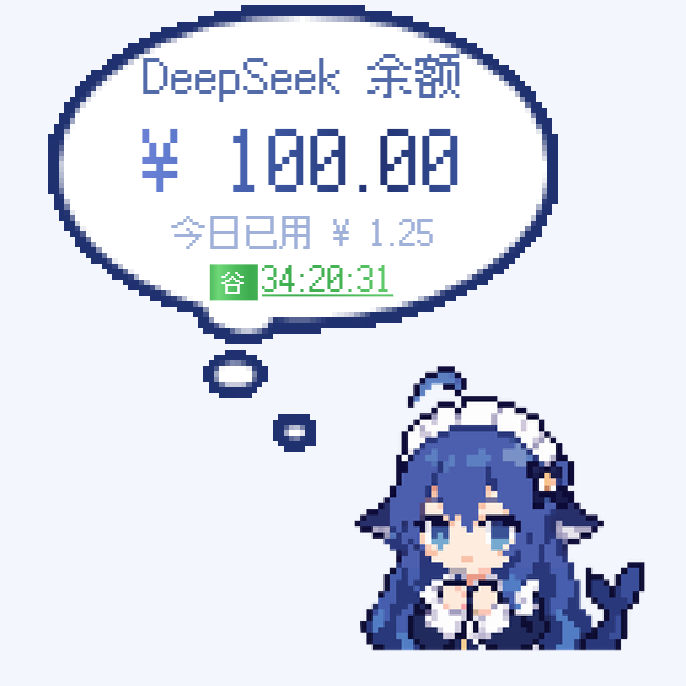
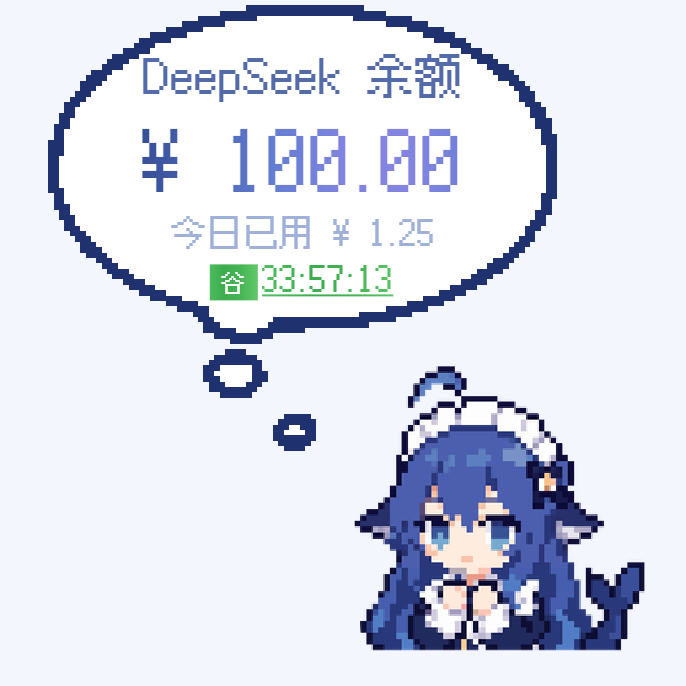
fix: vectorize pixel dialogue frames

diff --git a/assets/pixel-theme.js b/assets/pixel-theme.js
@@ -34,6 +34,116 @@
       ' V ' + (y + u) + ' H ' + (x + 2 * u) + ' Z'
   }
 
+  function quantizePixels(data, palette) {
+    var cells = new Int16Array(data.length / 4)
+    cells.fill(-1)
+    for (var i = 0; i < cells.length; i++) {
+      var offset = i * 4, alpha = data[offset + 3]
+      if (alpha < 8) continue
+      var best = -1, distance = Infinity
+      palette.forEach(function (color, index) {
+        var dr = data[offset] - color[0], dg = data[offset + 1] - color[1], db = data[offset + 2] - color[2]
+        var da = alpha - color[3]
+        var score = dr * dr + dg * dg + db * db + da * da * 0.05
+        if (score < distance) { distance = score; best = index }
+      })
+      // Match unpremultiplied RGB first: a translucent white edge must stay white.
+      // Then snap coverage to the authored opacity, leaving faint outer pixels clear.
+      if (best >= 0 && alpha >= palette[best][3] / 2) cells[i] = best
+    }
+    return cells
+  }
+
+  function pixelPaths(cells, width, height, palette) {
+    var stride = width + 1, edges = palette.map(function () { return new Map() })
+    function edge(color, x, y, direction) {
+      var vertex = y * stride + x, graph = edges[color]
+      graph.set(vertex, (graph.get(vertex) || 0) | (1 << direction))
+    }
+    for (var y = 0; y < height; y++) for (var x = 0; x < width; x++) {
+      var i = y * width + x, color = cells[i]
+      if (color < 0) continue
+      if (y === 0 || cells[i - width] !== color) edge(color, x, y, 0)
+      if (x === width - 1 || cells[i + 1] !== color) edge(color, x + 1, y, 1)
+      if (y === height - 1 || cells[i + width] !== color) edge(color, x + 1, y + 1, 2)
+      if (x === 0 || cells[i - 1] !== color) edge(color, x, y + 1, 3)
+    }
+    var paths = [], moves = [1, stride, -1, -stride]
+    edges.forEach(function (graph, index) {
+      var contours = []
+      while (graph.size) {
+        var start = graph.keys().next().value, vertex = start, last = -1, commands = []
+        var mask = graph.get(start), direction = [0, 1, 2, 3].find(function (d) { return mask & (1 << d) })
+        do {
+          mask = graph.get(vertex) & ~(1 << direction)
+          if (mask) graph.set(vertex, mask); else graph.delete(vertex)
+          vertex += moves[direction]
+          var command = (direction % 2 ? 'V ' + Math.floor(vertex / stride) : 'H ' + (vertex % stride))
+          if (direction === last) commands[commands.length - 1] = command; else commands.push(command)
+          last = direction
+          if (vertex === start) break
+          mask = graph.get(vertex)
+          // Keep diagonally touching pixels as separate contours by turning right first.
+          direction = [(last + 1) % 4, last, (last + 3) % 4, (last + 2) % 4].find(function (d) { return mask & (1 << d) })
+        } while (direction !== undefined)
+        contours.push('M ' + (start % stride) + ' ' + Math.floor(start / stride) + ' ' + commands.join(' ') + ' Z')
+      }
+      if (contours.length) paths.push({ color: palette[index], d: contours.join(' ') })
+    })
+    return paths
+  }
+
+  function framePalette(svg) {
+    var context = document.createElement('canvas').getContext('2d'), palette = []
+    function inherited(node, name, fallback) {
+      for (; node && node.nodeType === 1; node = node.parentNode) if (node.hasAttribute(name)) return node.getAttribute(name)
+      return fallback
+    }
+    svg.querySelectorAll('path,ellipse,circle,rect,polygon,polyline').forEach(function (node) {
+      var opacity = 1
+      for (var parent = node; parent && parent.nodeType === 1; parent = parent.parentNode) {
+        if (parent.hasAttribute('opacity')) opacity *= Number(parent.getAttribute('opacity'))
+      }
+      ;['fill', 'stroke'].forEach(function (name) {
+        var paint = inherited(node, name, name === 'fill' ? '#000000' : 'none')
+        if (paint === 'none' || paint === 'transparent') return
+        context.fillStyle = '#000000'; context.fillStyle = paint
+        var resolved = context.fillStyle, color
+        if (/^#[0-9a-f]{6}$/i.test(resolved)) {
+          color = [parseInt(resolved.slice(1, 3), 16), parseInt(resolved.slice(3, 5), 16), parseInt(resolved.slice(5, 7), 16), 255]
+        } else {
+          var parts = resolved.match(/[\d.]+/g)
+          if (!parts || parts.length < 3) return
+          color = [Number(parts[0]), Number(parts[1]), Number(parts[2]), parts.length > 3 ? Number(parts[3]) * 255 : 255]
+        }
+        color[3] = Math.round(color[3] * opacity * Number(inherited(node, name + '-opacity', '1')))
+        if (color[3] >= 8 && !palette.some(function (p) { return p.join(',') === color.join(',') })) palette.push(color)
+      })
+    })
+    return palette
+  }
+
+  function imagePalette(data, palette) {
+    var histogram = new Map(), count = 0
+    for (var i = 0; i < data.length; i += 4) {
+      if (data[i + 3] < 128) continue
+      var color = [data[i], data[i + 1], data[i + 2], 255]
+      if (Math.min(color[0], color[1], color[2]) >= 240) color = [255, 255, 255, 255]
+      var key = color.join(','); count++
+      histogram.set(key, (histogram.get(key) || 0) + 1)
+    }
+    // Image frames have no declared palette. Retain dominant tones, merging similar
+    // colors and rare interpolation fringes into a bounded, flat-color palette.
+    var candidates = Array.from(histogram).sort(function (a, b) { return b[1] - a[1] })
+    var minimum = Math.max(2, Math.ceil(count * 0.003))
+    candidates.forEach(function (entry) {
+      if (palette.length >= 32 || (palette.length && entry[1] < minimum)) return
+      var color = entry[0].split(',').map(Number)
+      if (!palette.some(function (p) { return (p[0] - color[0]) ** 2 + (p[1] - color[1]) ** 2 + (p[2] - color[2]) ** 2 < 48 ** 2 })) palette.push(color)
+    })
+    return palette
+  }
+
   function styles() {
     if (!scope.document || document.querySelector('[data-dshw-pixel-theme]')) return
     var style = document.createElement('style')
@@ -44,9 +154,10 @@
       '.dshwv-root[data-pixel-dialogue="raster"] .dshwv-text,.dshwv-root[data-pixel-dialogue="raster"] .dshwv-text *{' +
       'font-family:DshWhalePixel,"Microsoft YaHei",sans-serif!important;font-synthesis:none;border-radius:0!important;text-shadow:none!important}',
       '.dshwv-root:not([data-pixel-dialogue="classic"]) [data-pixel-font]{font-size:var(--dshw-pixel-font-size)!important;letter-spacing:0!important}',
-      '.dshwv-bubble-raster{position:absolute;inset:0;width:100%;height:100%;pointer-events:none;image-rendering:pixelated;opacity:0;transition:opacity .2s ease}',
+      '.dshwv-bubble-raster{position:absolute;inset:0;width:100%;height:100%;opacity:0;transition:opacity .2s ease}',
+      '.dshwv-pop .dshwv-bubble-raster,.dshwv-pop .dshwv-bubble-raster *{pointer-events:none!important}',
       '.dshwv-pop-open.dshwv-raster-ready .dshwv-bubble-raster{opacity:1;transition-delay:.26s}',
-      '.dshwv-pop.dshwv-raster-ready .dshwv-shapewrap>svg{opacity:0!important}',
+      '.dshwv-pop.dshwv-raster-ready .dshwv-shapewrap>svg[data-pixel-source]{opacity:0!important}',
       '.dshwv-dialogue-row{display:flex;align-items:center;gap:8px;margin:6px 0;color:#213170;font-size:12px}',
       '.dshwv-dialogue-style{flex:1;min-width:0;border:1px solid #b9cced;border-radius:4px;padding:4px;background:#fff;color:#213170}',
     ].join('\n')
@@ -56,11 +167,14 @@
   function mount(options) {
     var root = options.root, shape = options.shape, bubble = options.bubble, text = options.text
     var mode = 'pixel', source = null, builtin = true, disposed = false, revision = 0, pending = null
-    var low = null, raf = null, svgUrl = null
+    var raf = null, svgUrl = null
     try { var saved = localStorage.getItem('dshw-pixel-dialogue'); if (MODES.indexOf(saved) >= 0) mode = saved } catch (err) {}
-    var canvas = document.createElement('canvas')
-    canvas.className = 'dshwv-bubble-raster'
-    canvas.setAttribute('aria-hidden', 'true')
+    var vector = document.createElementNS(NS, 'svg')
+    vector.setAttribute('class', 'dshwv-bubble-raster')
+    vector.setAttribute('aria-hidden', 'true')
+    vector.setAttribute('viewBox', '0 0 128 87')
+    vector.setAttribute('preserveAspectRatio', 'none')
+    vector.setAttribute('shape-rendering', 'crispEdges')
     var row = document.createElement('label')
     row.className = 'dshwv-dialogue-row'
     row.appendChild(document.createTextNode('对话框'))
@@ -105,19 +219,18 @@
         node.replaceWith(path)
       })
     }
-    function paintRaster() {
-      if (!low || disposed || mode !== 'raster') return
-      var layout = getComputedStyle(shape), ratio = scope.devicePixelRatio || 1
-      var cssWidth = parseFloat(layout.width), cssHeight = parseFloat(layout.height)
-      if (!(cssWidth > 0 && cssHeight > 0)) return
-      // The press animation scales the parent temporarily; use its steady layout size.
-      var width = Math.max(1, Math.round(cssWidth * ratio)), height = Math.max(1, Math.round(cssHeight * ratio))
-      canvas.width = width; canvas.height = height
-      var context = canvas.getContext('2d')
-      context.imageSmoothingEnabled = false
-      context.drawImage(low, 0, 0, width, height)
-      canvas.dataset.sourceWidth = String(low.width)
-      canvas.dataset.sourceHeight = String(low.height)
+    function paintVector(data, width, height, palette) {
+      vector.replaceChildren()
+      pixelPaths(quantizePixels(data, palette), width, height, palette).forEach(function (entry) {
+        var path = document.createElementNS(NS, 'path')
+        path.setAttribute('fill', '#' + entry.color.slice(0, 3).map(function (c) { return c.toString(16).padStart(2, '0') }).join(''))
+        if (entry.color[3] < 255) path.setAttribute('fill-opacity', String(entry.color[3] / 255))
+        path.setAttribute('fill-rule', 'evenodd')
+        path.setAttribute('d', entry.d)
+        vector.appendChild(path)
+      })
+      vector.dataset.sourceWidth = String(width); vector.dataset.sourceHeight = String(height)
+      shape.appendChild(vector)
       bubble.classList.add('dshwv-raster-ready')
     }
     function dataUrl(blob) {
@@ -127,6 +240,7 @@
     }
     async function rasterize(svg, ticket, signal) {
       try {
+        var palette = framePalette(svg), hasImages = !!svg.querySelector('image')
         // SVG image decoding is self-contained: embed only the widget's own image route.
         await Promise.all(Array.from(svg.querySelectorAll('image'), async function (image) {
           var href = image.getAttribute('href') || image.getAttributeNS('http://www.w3.org/1999/xlink', 'href') || ''
@@ -147,15 +261,13 @@
           })
         } finally { URL.revokeObjectURL(url); if (svgUrl === url) svgUrl = null }
         if (disposed || ticket !== revision) return
-        low = document.createElement('canvas'); low.width = 128; low.height = 87
+        var low = document.createElement('canvas'); low.width = 128; low.height = 87
         var ctx = low.getContext('2d', { willReadFrequently: true })
         ctx.imageSmoothingEnabled = false
         ctx.drawImage(image, 0, 0, low.width, low.height)
-        // Snap the silhouette's partially transparent edge before nearest-neighbour enlargement.
         var pixels = ctx.getImageData(0, 0, low.width, low.height)
-        for (var i = 3; i < pixels.data.length; i += 4) pixels.data[i] = pixels.data[i] >= 96 ? 255 : 0
-        ctx.putImageData(pixels, 0, 0)
-        paintRaster()
+        if (hasImages) palette = imagePalette(pixels.data, palette)
+        paintVector(pixels.data, low.width, low.height, palette)
       } catch (err) {
         if (ticket === revision && !disposed && err.name !== 'AbortError') console.warn('[dsh-whale-pixel] Frame pixelation unavailable:', err.message)
       }
@@ -163,18 +275,19 @@
     function render() {
       revision++
       if (pending) pending.abort()
-      pending = null; low = null
+      pending = null
       if (svgUrl) { URL.revokeObjectURL(svgUrl); svgUrl = null }
       bubble.classList.remove('dshwv-raster-ready')
-      canvas.remove()
+      vector.remove()
       root.dataset.pixelDialogue = mode
       var current = shape.querySelector('svg')
       if (source) {
         var svg = source.cloneNode(true)
+        svg.setAttribute('data-pixel-source', '')
         if (current) current.replaceWith(svg); else shape.prepend(svg)
         if (mode === 'pixel' && builtin) pixelShape(svg)
         if (mode === 'raster') {
-          shape.appendChild(canvas); pending = new AbortController()
+          pending = new AbortController()
           rasterize(source.cloneNode(true), revision, pending.signal)
         }
       }
@@ -192,7 +305,7 @@
       try { localStorage.setItem('dshw-pixel-dialogue', mode) } catch (err) {}
       render()
     }
-    function resize() { paintRaster(); scheduleFonts() }
+    function resize() { scheduleFonts() }
     function dispose() {
       if (disposed) return
       disposed = true; revision++; observer.disconnect()
@@ -201,7 +314,7 @@
       if (svgUrl) URL.revokeObjectURL(svgUrl)
       if (raf !== null) cancelAnimationFrame(raf)
       select.removeEventListener('change', change); scope.removeEventListener('resize', resize); scope.removeEventListener('pagehide', pagehide)
-      row.remove(); canvas.remove(); source = null; low = null
+      row.remove(); vector.remove(); source = null
     }
     function pagehide(event) { if (!event.persisted) dispose() }
     var resizeObserver = typeof ResizeObserver === 'function' ? new ResizeObserver(resize) : null
@@ -211,6 +324,6 @@
     fontReady().then(scheduleFonts).catch(function (err) { console.warn('[dsh-whale-pixel] Pixel font unavailable:', err.message) })
     return { frameChanged: frameChanged, dispose: dispose }
   }
-  scope.DshWhalePixelTheme = Object.freeze({ mount: mount, fontSize: fontSize, stepRect: stepRect, fontReady: fontReady })
+  scope.DshWhalePixelTheme = Object.freeze({ mount: mount, fontSize: fontSize, stepRect: stepRect, fontReady: fontReady, quantizePixels: quantizePixels, pixelPaths: pixelPaths })
   styles()
 })(typeof globalThis === 'object' ? globalThis : window)

diff --git a/CONTRIBUTING.md b/CONTRIBUTING.md
@@ -34,7 +34,7 @@
 
 原始 PNG 播放与解码缓存位于 `assets/pixel-raster.js`，源图和时序索引位于 `assets/whaleGirl/img/`。新增素材须登记 SHA-256，并保持 PNG 与字符格动画的帧数、`dur` 一致。
 
-像素对话框、原框最近邻放大与字体加载位于 `assets/pixel-theme.js`。内置字体和原始许可位于 `assets/fonts/fusion-pixel/`，文件完整性由 `test/pixel-theme.test.mjs` 校验。主题切换仅影响真实挂件的呈现，原框配置保持可编辑。
+像素对话框、原框颜色归一、SVG 轮廓提取与字体加载位于 `assets/pixel-theme.js`。`test/pixel-theme.test.mjs` 校验颜色与透明边缘归一、SVG 孔洞及对角接触轮廓，并核对 `assets/fonts/fusion-pixel/` 中字体与原始许可的文件完整性。主题切换仅影响真实挂件的呈现，原框配置保持可编辑。
 
 下面是你打开仓库第一时间看到的东西。行数按仓库内 LF 内容统计（git 里的真实内容，不是 Windows 工作区的 CRLF），口径与维护者的自检脚本一致。
 

diff --git a/README.md b/README.md
@@ -21,9 +21,9 @@
 - 对话框默认使用阶梯像素边框与内置中文像素字体；菜单可切换“原框像素化”或“经典样式”。
 - 自定义上传的角色、泡泡、账本与其它原有功能继续使用。完整行为见 [像素动画说明](docs/PIXEL.md)。
 
-对话框效果：左侧为默认像素边框，右侧为原框缩小后最近邻放大的效果。
+对话框效果：左侧为默认像素边框，右侧为原框缩小、颜色归一后生成的像素 SVG，保留深蓝描边、白色填充与透明背景。
 
-<img src="assets/previews/dialogue-pixel.png" width="343" alt="像素边框与中文像素字体"> <img src="assets/previews/dialogue-raster.png" width="343" alt="原框缩小后最近邻放大与中文像素字体">
+<img src="assets/previews/dialogue-pixel.png" width="343" alt="像素边框与中文像素字体"> <img src="assets/previews/dialogue-raster.png" width="343" alt="原框颜色归一后的像素 SVG 与中文像素字体">
 
 ## 下载与安装
 
